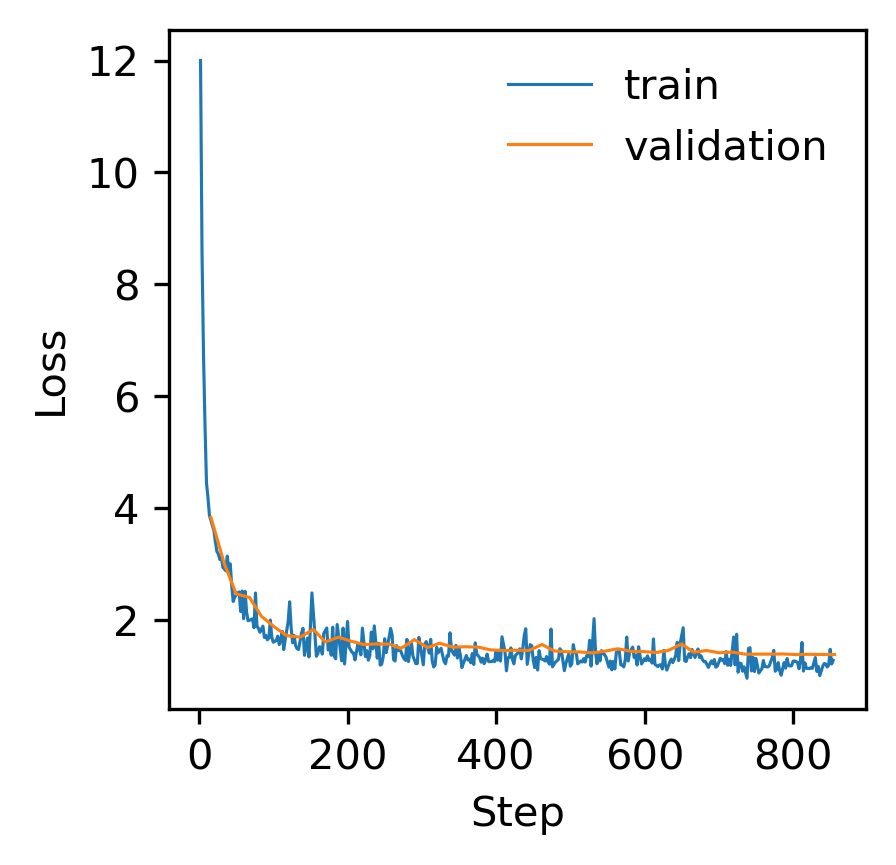
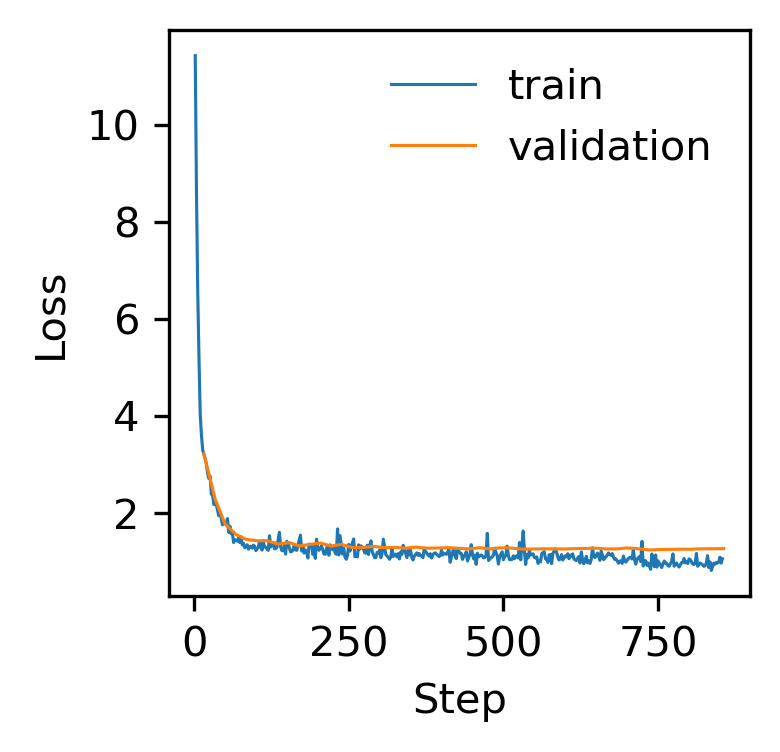
update readme

diff --git a/deepab_pytorch/train_deepab.py b/deepab_pytorch/train_deepab.py
@@ -27,7 +27,7 @@ def parse_argument():
     )
     parser.add_argument("-b", "--bsz", type=int, default=128, help="Batch size")
     parser.add_argument(
-        "-e", "--epochs", type=int, default=50, help="Number of epochs to train"
+        "-e", "--epochs", type=int, default=60, help="Number of epochs to train"
     )
     parser.add_argument(
         "-l", "--learning-rate", type=float, default=0.01, help="Learning rate"

diff --git a/README.md b/README.md
@@ -68,7 +68,8 @@ for target in ['d_ca', 'd_cb', 'd_no', 'omega', 'theta', 'phi']:
 
 ## Reproduction status
 
-![img](img/log.png)
+<center><img src='img/log.png' width='50%'></center>
+
 Training logs can be found [here](https://api.wandb.ai/links/dohlee/8y2ko0nn).
 
 Predicted inter-residue geometries are visualized as follows.
